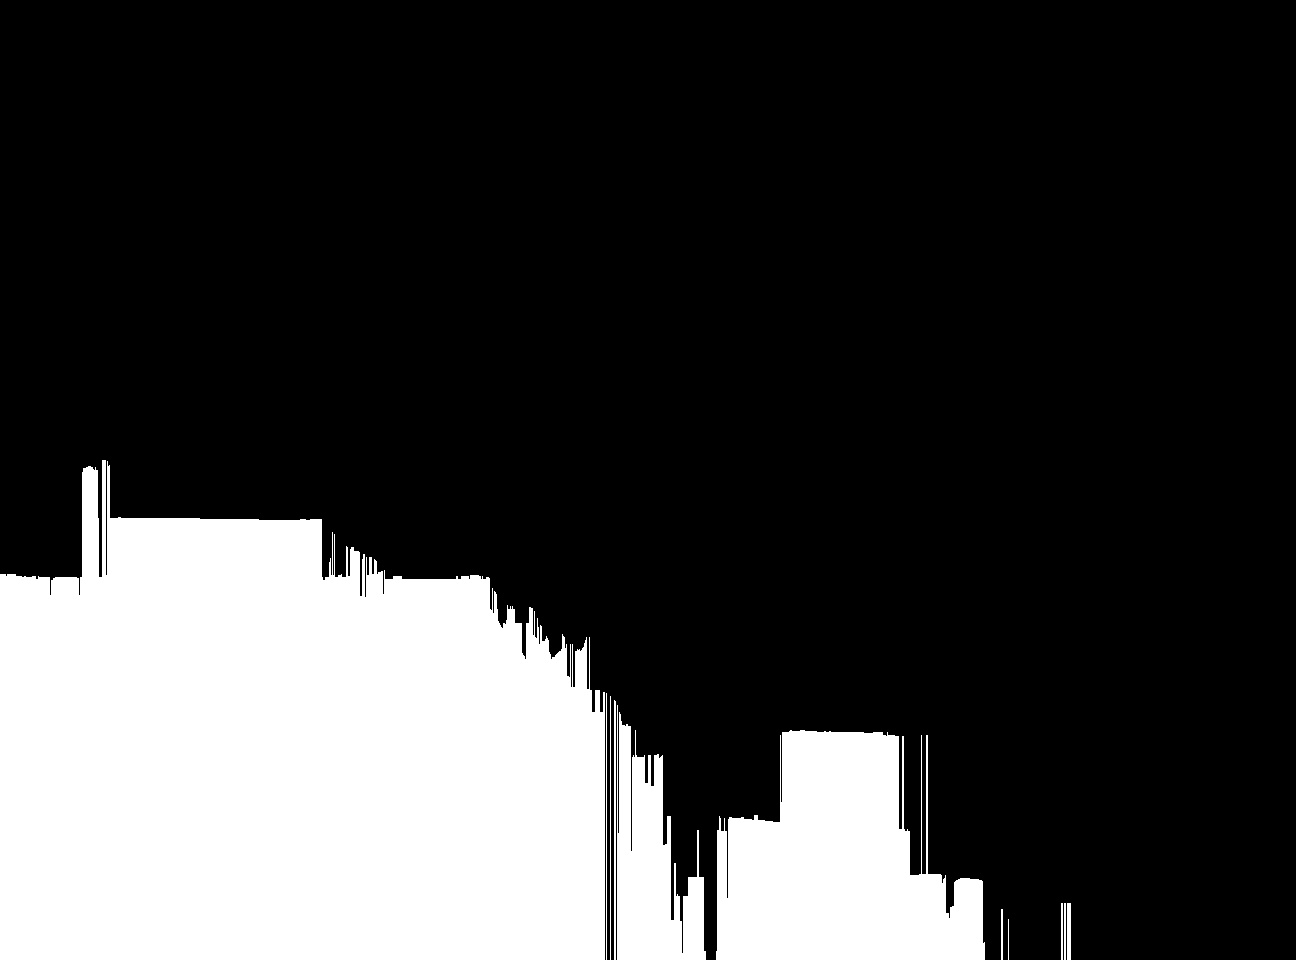
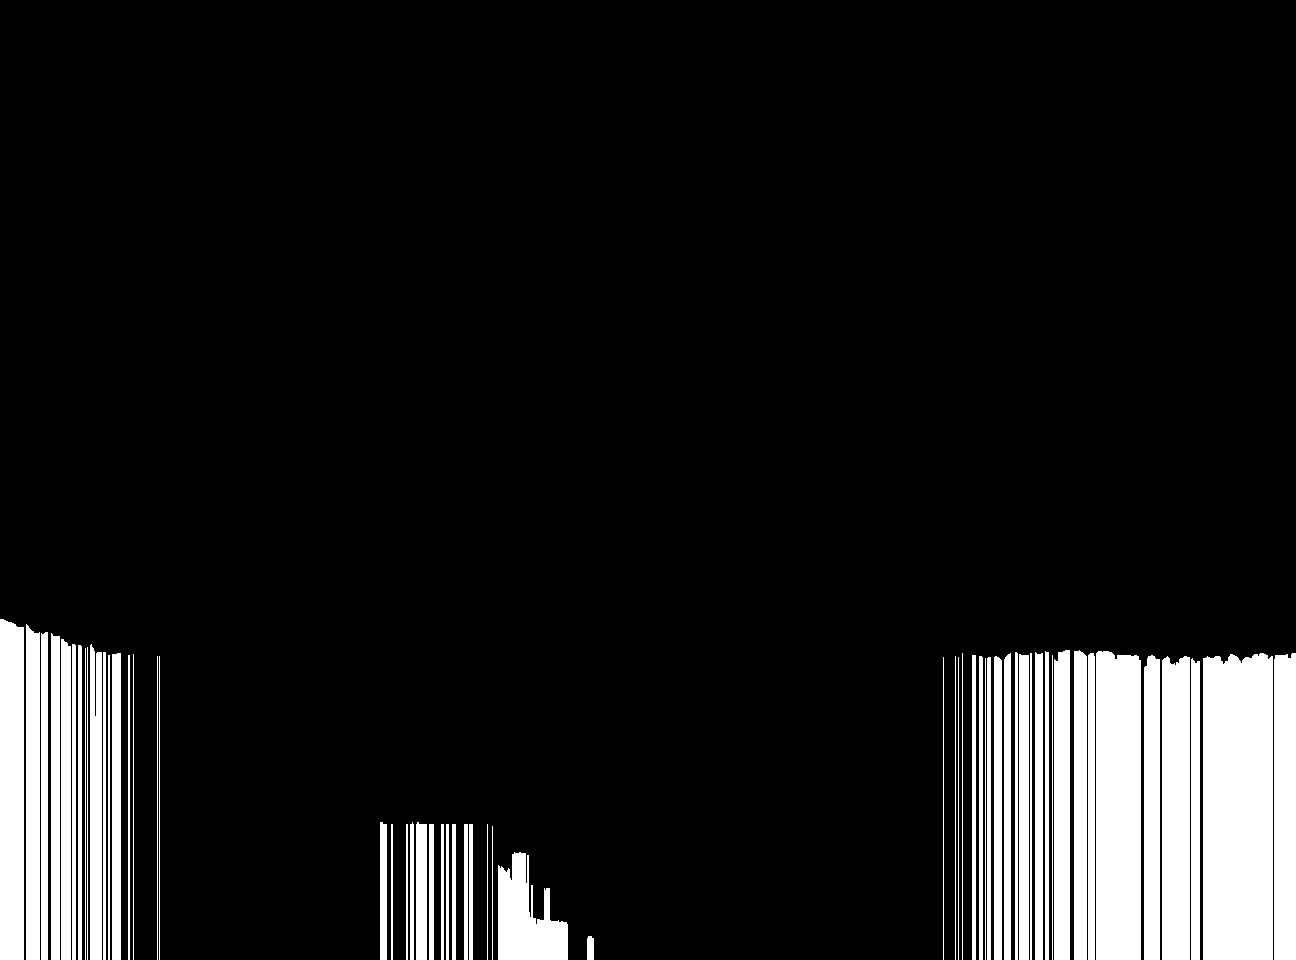
Fixed bug

Changed region(s): [[0.0, 0.4688, 1.0, 1.0]]

diff --git a/SkyDetector/sky_detector.cpp b/SkyDetector/sky_detector.cpp
@@ -2,6 +2,7 @@
 #include <cassert>
 #include <numeric>
 #include <memory>
+#include <exception>
 #include <algorithm>
 
 #include "sky_detector.hpp"
@@ -561,18 +562,18 @@ void SkyDetector::refine_border(const std::vector<int> &border, const cv::Mat &i
     row_index = 0;
     for (int row = 0; row < labels.rows; ++row)
     {
-        if (labels.at<float>(row, 0) == 0.0)
+        if (labels.at<int>(row, 0) == 0)
         {
             sky_label_0_image.at<uchar>(row_index, 0) = sky_image_non_zero.at<uchar>(row, 0);
             sky_label_0_image.at<uchar>(row_index, 1) = sky_image_non_zero.at<uchar>(row, 1);
             sky_label_0_image.at<uchar>(row_index, 2) = sky_image_non_zero.at<uchar>(row, 2);
-            row_index++;
+            ++row_index;
         }
     }
     row_index = 0;
     for (int row = 0; row < labels.rows; ++row)
     {
-        if (labels.at<float>(row, 0) == 1.0)
+        if (labels.at<int>(row, 0) == 1)
         {
             sky_label_1_image.at<uchar>(row_index, 0) = sky_image_non_zero.at<uchar>(row, 0);
             sky_label_1_image.at<uchar>(row_index, 1) = sky_image_non_zero.at<uchar>(row, 1);
@@ -703,7 +704,17 @@ bool SkyDetector::extract_ground(const cv::Mat &img, cv::Mat &ground_mask)
         std::cout << "It has a partial sky region...\n";
         std::vector<int> border_new;
         //std::cout << "Refining region...\n";
-        refine_border(sky_border_optimal, img, border_new);
+
+        try {
+            refine_border(sky_border_optimal, img, border_new);
+        }
+        catch (...) {
+            std::cout << "Error catched" << std::endl;
+            std::cout << "using naive border calculation" << std::endl;
+            calculate_border_naive(gradient_info_map, sky_border_naive);
+            ground_mask = make_sky_mask(img, sky_border_naive, 0);
+            return true;
+        }
         cleanup_border(border_new);
         ground_mask = make_sky_mask(img, border_new, 0);
         if (!test_ground_mask(ground_mask, border_new))

diff --git a/main.cpp b/main.cpp
@@ -78,10 +78,13 @@ int main()
         double N = ground_mask.rows * ground_mask.cols;
         double ratio = pixels_num / N;
         cout << "ground ratio: " << ratio << endl;
+        imshow("gruond_mask", ground_mask);
         imwrite(res_name, ground_mask);
+        waitKey();
+        destroyAllWindows();
     }
     else
         cout << "ground NOT found" << endl;
-    
+
     return 0;
 }
